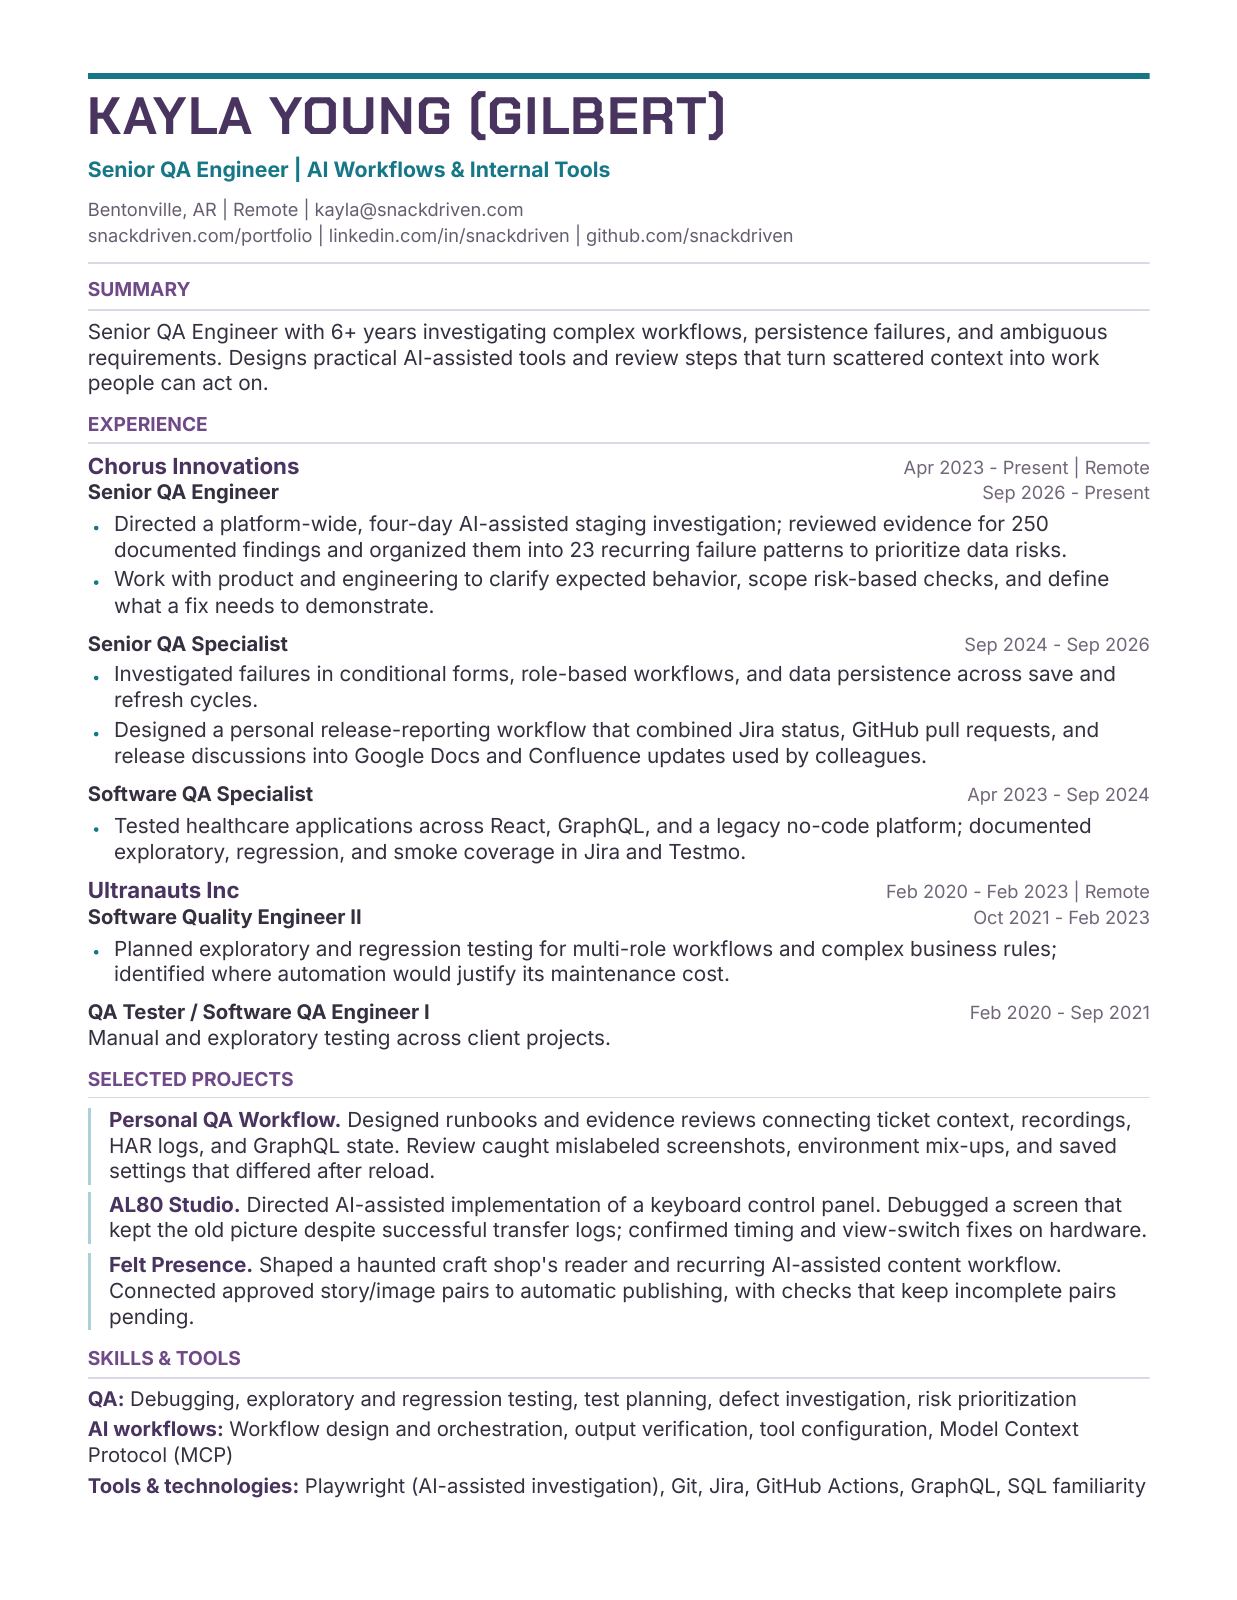
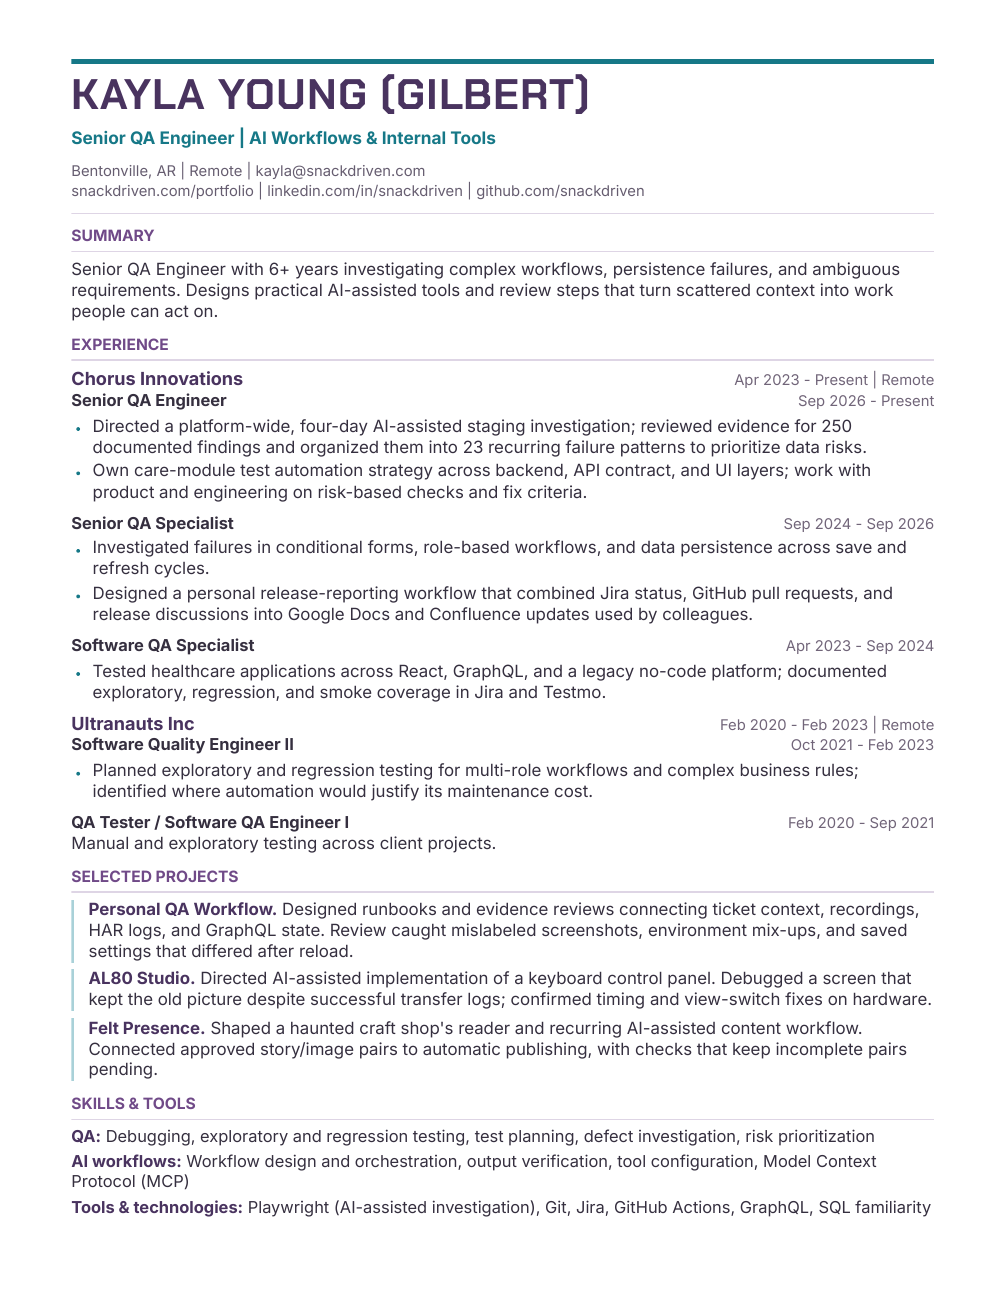
Add supported care-module automation strategy ownership

diff --git a/tools/resume/resume.html b/tools/resume/resume.html
@@ -36,7 +36,7 @@ li::marker { color: #167887; font-size: 8pt; }
 <div class="row"><span class="role">Senior QA Engineer</span><span class="date">Sep 2026 - Present</span></div>
 <ul>
 <li>Directed a platform-wide, four-day AI-assisted staging investigation; reviewed evidence for 250 documented findings and organized them into 23 recurring failure patterns to prioritize data risks.</li>
-<li>Work with product and engineering to clarify expected behavior, scope risk-based checks, and define what a fix needs to demonstrate.</li>
+<li>Own care-module test automation strategy across backend, API contract, and UI layers; work with product and engineering on risk-based checks and fix criteria.</li>
 </ul>
 <div class="row"><span class="role">Senior QA Specialist</span><span class="date">Sep 2024 - Sep 2026</span></div>
 <ul><li>Investigated failures in conditional forms, role-based workflows, and data persistence across save and refresh cycles.</li><li>Designed a personal release-reporting workflow that combined Jira status, GitHub pull requests, and release discussions into Google Docs and Confluence updates used by colleagues.</li></ul>
